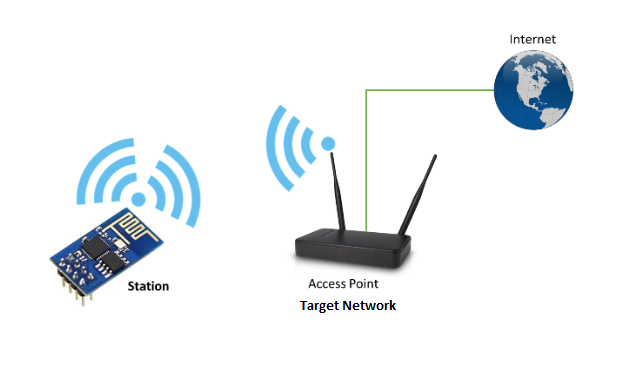
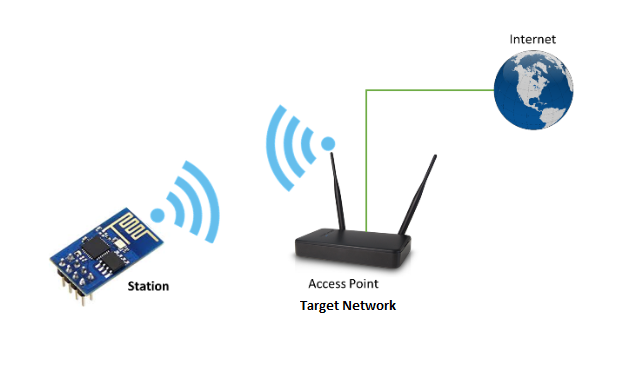
WS client connetion

Changed region(s): [[0.1224, 0.3616, 0.3671, 0.663]]

diff --git a/README.md b/README.md
@@ -61,7 +61,24 @@ where `<connection_status>` values can be:
 On the mobile phone, these responses must be handled accordingly: if the response has connection status is different than 3, this may represent the fact that the credentials must be sent again until the status endpoint will respond with `3 (WL_CONNECTED)`.
 
 
-Once the credentials were sent and the connection was successful, the **SoftAP mode** must be disabled.
+Once the credentials were sent and the connection is successful, the **SoftAP mode** is disabled.
+
+
+ ### Websockets Connection
+
+WS protocol was chosen because it offers a bidirectional, instant communication between client and server. To establish a WS connection, it is required for the client to send a handshake request to the server.
+
+![ESP8266 Station mode](doc/images/WS.png "ESP8266 Station mode")
+
+In this context, ESP8266 plays the client role because it needs to know the address of the server in order to do the handshake.
+
+The WS Server is available over Internet at: `b5ec4d23.ngrok.io/verde/socket/pot/{id}`.
+
+After the handshake, if the connection was successfully established, the client will send a ping message at 15 seconds interval. If not receiving 2 pongs from the server it will disconnect.
+
+If disconnected, it will automatically try to connect again after 5 seconds.
+
+
 
 Dependencies:
 1.  ESP8266WiFi Arduino library:
@@ -82,3 +99,6 @@ Dependencies:
     * Source: https://github.com/arkhipenko/TaskScheduler/
     * Docs: https://github.com/arkhipenko/TaskScheduler/wiki/Creating-TaskScheduler---friendly-libraries
             https://github.com/arkhipenko/TaskScheduler/wiki/API-Documentation
+
+5. Websockets
+    * Source: https://github.com/Links2004/arduinoWebSockets
